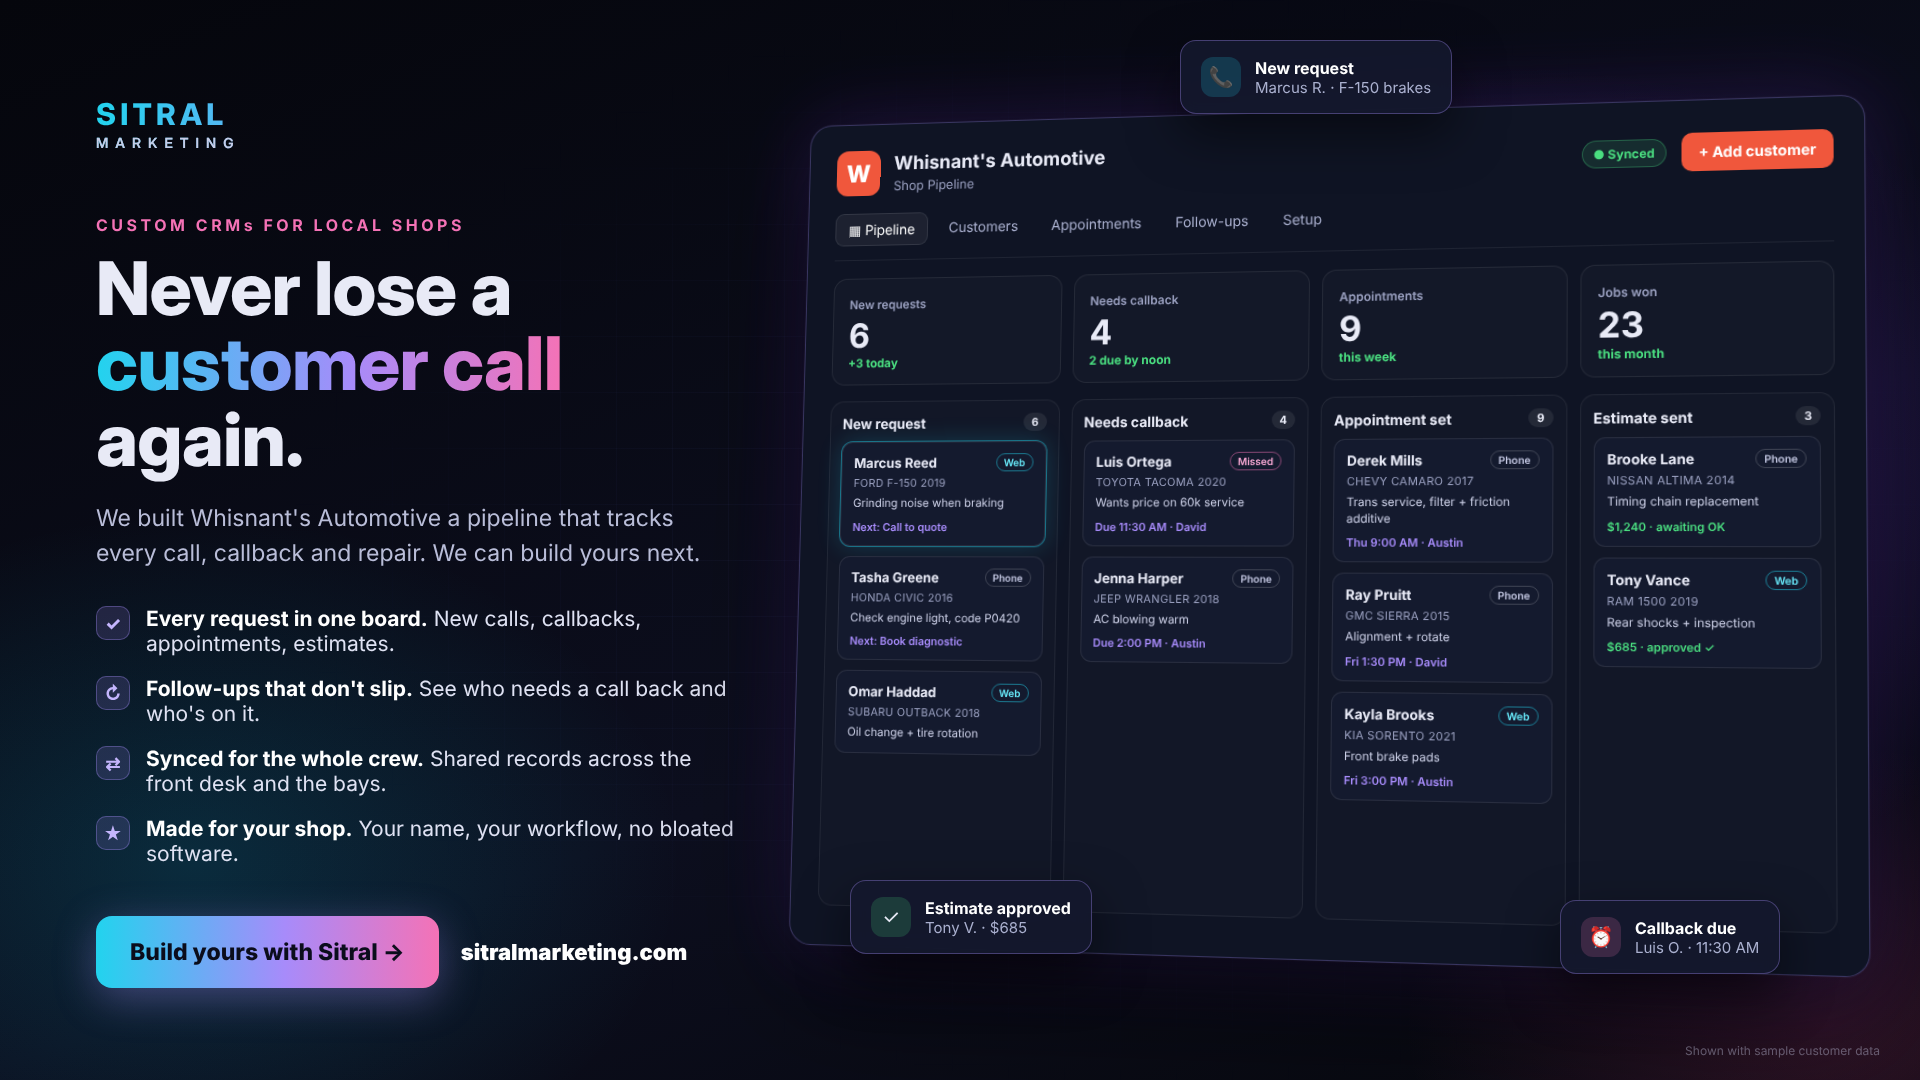
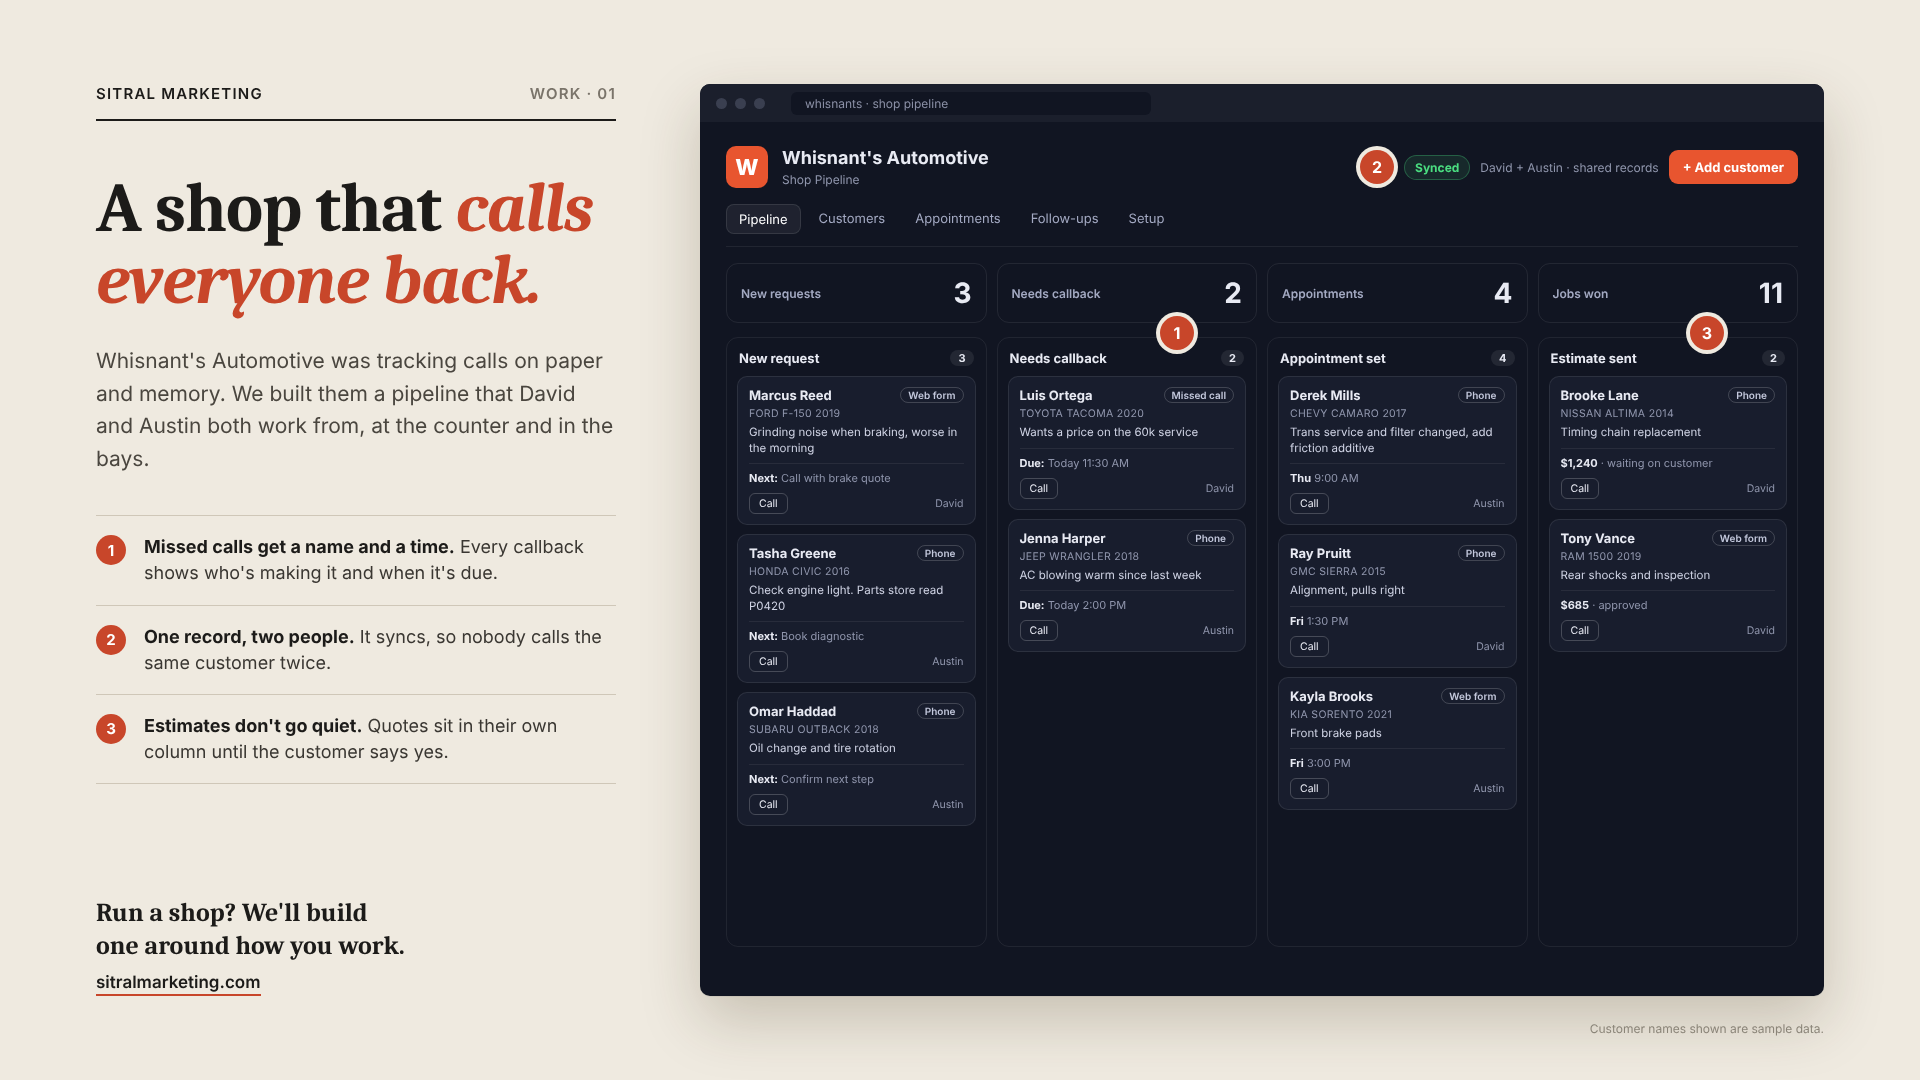
Restyle CRM promo as an editorial case study
Claude-Session: https://claude.ai/code/session_01Xn2dVnvhUTsR6NU56MkshM

diff --git a/promo/crm-promo.html b/promo/crm-promo.html
@@ -1,116 +1,110 @@
 <!doctype html>
 <html><head><meta charset="utf-8"><style>
 *{box-sizing:border-box}
-html,body{margin:0;width:1920px;height:1080px;overflow:hidden;background:#06070d}
-.wrap{position:relative;width:1920px;height:1080px;font-family:"Inter","Inter Display",sans-serif;color:#e8eaf6;
- background:radial-gradient(ellipse 900px 600px at 78% 45%,rgba(124,58,237,.30),transparent 70%),
- radial-gradient(ellipse 700px 500px at 10% 80%,rgba(6,182,212,.18),transparent 70%),
- radial-gradient(ellipse 600px 400px at 95% 95%,rgba(236,72,153,.18),transparent 70%),
- linear-gradient(160deg,#05060c,#0c0e1e 60%,#06070d)}
-.grid{position:absolute;inset:0;background-image:linear-gradient(rgba(120,140,255,.06) 1px,transparent 1px),linear-gradient(90deg,rgba(120,140,255,.06) 1px,transparent 1px);background-size:56px 56px;-webkit-mask-image:radial-gradient(ellipse 1100px 700px at 60% 50%,#000 20%,transparent 80%)}
-.grad{background:linear-gradient(90deg,#22d3ee,#a78bfa 55%,#f472b6);-webkit-background-clip:text;color:transparent}
-/* left copy */
-.left{position:absolute;left:96px;top:96px;width:640px}
-.brand{font-family:"Inter Display";font-weight:800;font-size:30px;letter-spacing:.14em}
-.brand small{display:block;font-size:14px;letter-spacing:.5em;color:#c7cbe6;font-weight:600;margin-top:2px}
-.kicker{margin-top:64px;font-size:16px;font-weight:700;letter-spacing:.22em;color:#f472b6}
-h1{font-family:"Inter Display";font-size:74px;line-height:1.02;font-weight:800;margin:16px 0 0;letter-spacing:-.01em}
-.lede{margin-top:24px;font-size:23px;line-height:1.5;color:#b9bdd8}
-ul{list-style:none;padding:0;margin:36px 0 0}
-li{display:flex;gap:16px;align-items:flex-start;margin-bottom:20px;font-size:21px;color:#dfe2f3}
-li i{flex:none;width:34px;height:34px;border-radius:10px;display:grid;place-items:center;font-style:normal;font-size:18px;font-weight:800;background:rgba(167,139,250,.16);border:1px solid rgba(167,139,250,.35);color:#c4b5fd}
-li b{color:#fff}
-.cta{position:absolute;left:96px;bottom:92px;display:flex;align-items:center;gap:22px}
-.btn{padding:22px 34px;border-radius:16px;font-size:23px;font-weight:800;color:#0b0d1c;background:linear-gradient(90deg,#22d3ee,#a78bfa 55%,#f472b6);box-shadow:0 10px 40px rgba(167,139,250,.35)}
-.url{font-size:22px;font-weight:600;color:#c7cbe6}
-.url b{color:#fff}
-/* mockup */
-.stage{position:absolute;left:800px;top:120px;width:1040px;height:820px;perspective:2200px}
-.app{position:absolute;inset:0;border-radius:22px;background:#0f1424;border:1px solid rgba(167,139,250,.28);
- box-shadow:0 40px 120px rgba(0,0,0,.6),0 0 0 1px rgba(255,255,255,.03),0 0 80px rgba(124,58,237,.25);
- transform:rotateY(-9deg) rotateX(4deg);transform-origin:left center;overflow:hidden;padding:26px 28px}
+html,body{margin:0;width:1920px;height:1080px;overflow:hidden;background:#efeae0}
+.wrap{position:relative;width:1920px;height:1080px;font-family:"Inter",sans-serif;color:#1c1b19;background:#efeae0}
+.serif{font-family:"Bitstream Charter","Caladea",serif}
+.mono{font-family:"Courier 10 Pitch","Liberation Mono",monospace}
+/* left column */
+.left{position:absolute;left:96px;top:84px;width:520px;bottom:84px;display:flex;flex-direction:column}
+.mast{display:flex;justify-content:space-between;font-size:15px;font-weight:600;letter-spacing:.08em;text-transform:uppercase;padding-bottom:16px;border-bottom:2px solid #1c1b19}
+.mast span:last-child{color:#7a746a}
+h1{font-size:70px;line-height:1.03;font-weight:700;margin:52px 0 0;letter-spacing:-.015em}
+h1 em{font-style:italic;color:#c8462a}
+.lede{margin-top:28px;font-size:21px;line-height:1.55;color:#4a463f}
+.notes{margin-top:40px;border-top:1px solid #cfc7b8}
+.note{display:flex;gap:18px;padding:18px 0;border-bottom:1px solid #cfc7b8;font-size:18px;line-height:1.45;color:#3a3732}
+.note b{color:#1c1b19}
+.num{flex:none;width:30px;height:30px;border-radius:50%;background:#c8462a;color:#fff;font-size:15px;font-weight:700;display:grid;place-items:center;margin-top:1px}
+.foot{margin-top:auto;display:flex;justify-content:space-between;align-items:flex-end}
+.foot .ask{font-size:26px;line-height:1.25;font-weight:700}
+.foot .site{font-size:17px;font-weight:600;border-bottom:2px solid #c8462a;padding-bottom:2px;margin-top:10px;display:inline-block}
+.sig{font-size:13px;color:#7a746a;text-align:right;line-height:1.5}
+/* screenshot */
+.shot{position:absolute;left:700px;top:84px;width:1124px;height:912px;border-radius:10px;background:#111522;box-shadow:0 1px 0 rgba(0,0,0,.05),0 24px 60px rgba(60,45,20,.22);overflow:hidden;color:#e8eaf3}
+.chrome{height:38px;background:#1b1f2c;display:flex;align-items:center;padding:0 16px;gap:8px}
+.chrome i{width:11px;height:11px;border-radius:50%;background:#3a3f50;display:block}
+.chrome .addr{margin-left:18px;font-size:12px;color:#8b90a6;background:#111522;border-radius:6px;padding:4px 14px;width:360px}
+.app{padding:24px 26px}
 .top{display:flex;align-items:center;gap:14px}
-.logo{width:46px;height:46px;border-radius:12px;background:#f0573c;display:grid;place-items:center;font-weight:800;font-size:24px;color:#fff}
-.shop b{display:block;font-size:19px}.shop span{font-size:13px;color:#9aa0c0}
-.sync{margin-left:auto;font-size:12px;font-weight:700;color:#4ade80;background:rgba(74,222,128,.12);border:1px solid rgba(74,222,128,.3);padding:5px 10px;border-radius:999px}
-.add{font-size:14px;font-weight:700;background:#f0573c;color:#fff;padding:10px 16px;border-radius:10px}
-.tabs{display:flex;gap:8px;margin:18px 0 18px;font-size:14px;color:#aab0cf;border-bottom:1px solid rgba(255,255,255,.07);padding-bottom:14px}
-.tabs span{padding:7px 13px;border-radius:9px}.tabs .on{background:rgba(255,255,255,.06);color:#fff;border:1px solid rgba(255,255,255,.1)}
-.stats{display:grid;grid-template-columns:repeat(4,1fr);gap:12px}
-.stat{border:1px solid rgba(255,255,255,.08);border-radius:14px;padding:14px 16px;background:rgba(255,255,255,.02)}
-.stat span{font-size:12px;color:#9aa0c0;font-weight:600}.stat b{display:block;font-size:34px;margin-top:2px}
-.stat .d{font-size:12px;color:#4ade80;font-weight:700}
-.cols{display:grid;grid-template-columns:repeat(4,1fr);gap:12px;margin-top:16px}
-.col{border:1px solid rgba(255,255,255,.07);border-radius:14px;padding:12px;background:rgba(255,255,255,.015);min-height:500px}
-.col h4{margin:0 0 10px;font-size:14px;display:flex;justify-content:space-between;align-items:center}
-.col h4 em{font-style:normal;font-size:11px;background:rgba(255,255,255,.08);border-radius:999px;padding:2px 8px}
-.card{border:1px solid rgba(255,255,255,.09);border-radius:11px;padding:11px 12px;margin-bottom:10px;background:#141a2e}
-.card b{font-size:13.5px;display:flex;justify-content:space-between;align-items:center}
-.tag{font-size:10px;font-weight:600;padding:2px 7px;border-radius:999px;border:1px solid rgba(255,255,255,.18);color:#c7cbe6}
-.tag.web{border-color:rgba(34,211,238,.5);color:#67e8f9}.tag.miss{border-color:rgba(244,114,182,.5);color:#f9a8d4}
-.car{font-size:11px;color:#9aa0c0;margin-top:4px;letter-spacing:.03em}
-.note{font-size:11.5px;color:#cfd3ea;margin-top:6px;line-height:1.35}
-.next{font-size:11px;color:#a78bfa;margin-top:8px;font-weight:600}
-.money{color:#4ade80}
-.new{box-shadow:0 0 0 1px rgba(34,211,238,.45),0 0 24px rgba(34,211,238,.2)}
-/* toasts */
-.toast{position:absolute;display:flex;gap:14px;align-items:center;padding:16px 20px;border-radius:16px;background:rgba(20,24,44,.92);border:1px solid rgba(167,139,250,.35);box-shadow:0 20px 50px rgba(0,0,0,.5);backdrop-filter:blur(8px);font-size:15px}
-.toast .ic{width:40px;height:40px;border-radius:12px;display:grid;place-items:center;font-size:20px}
-.toast b{display:block;font-size:16px;color:#fff}.toast span{color:#aab0cf}
-.t1{left:1180px;top:40px}.t1 .ic{background:rgba(34,211,238,.18)}
-.t2{left:850px;top:880px}.t2 .ic{background:rgba(74,222,128,.18)}
-.t3{left:1560px;top:900px}.t3 .ic{background:rgba(244,114,182,.18)}
-.fine{position:absolute;right:40px;bottom:22px;font-size:12px;color:rgba(199,203,230,.4)}
-</style></head><body><div class="wrap"><div class="grid"></div>
+.logo{width:42px;height:42px;border-radius:10px;background:#e8552f;display:grid;place-items:center;font-weight:800;font-size:22px;color:#fff}
+.shop b{display:block;font-size:18px}.shop span{font-size:12px;color:#9096ad}
+.right{margin-left:auto;display:flex;gap:10px;align-items:center;font-size:12px;color:#9096ad}
+.sync{font-weight:700;color:#4ade80;background:rgba(74,222,128,.1);border:1px solid rgba(74,222,128,.3);padding:4px 10px;border-radius:999px}
+.add{font-size:13px;font-weight:700;background:#e8552f;color:#fff;padding:9px 14px;border-radius:9px}
+.tabs{display:flex;gap:6px;margin:16px 0;font-size:13px;color:#a3a9c2;border-bottom:1px solid rgba(255,255,255,.07);padding-bottom:12px}
+.tabs span{padding:6px 12px;border-radius:8px}.tabs .on{background:rgba(255,255,255,.06);color:#fff;border:1px solid rgba(255,255,255,.1)}
+.stats{display:grid;grid-template-columns:repeat(4,1fr);gap:10px}
+.stat{border:1px solid rgba(255,255,255,.08);border-radius:12px;padding:12px 14px;display:flex;justify-content:space-between;align-items:center}
+.stat span{font-size:12px;color:#a3a9c2;font-weight:600}.stat b{font-size:28px}
+.cols{display:grid;grid-template-columns:repeat(4,1fr);gap:10px;margin-top:14px}
+.col{border:1px solid rgba(255,255,255,.07);border-radius:12px;padding:10px;min-height:610px}
+.col h4{margin:2px 2px 10px;font-size:13px;display:flex;justify-content:space-between;align-items:center}
+.col h4 em{font-style:normal;font-size:11px;background:rgba(255,255,255,.08);border-radius:999px;padding:1px 8px}
+.card{border:1px solid rgba(255,255,255,.09);border-radius:10px;padding:10px 11px;margin-bottom:9px;background:#181d2d}
+.card b{font-size:13px;display:flex;justify-content:space-between;align-items:center}
+.tag{font-size:10px;font-weight:600;padding:1px 7px;border-radius:999px;border:1px solid rgba(255,255,255,.18);color:#c3c8dc}
+.car{font-size:10.5px;color:#9096ad;margin-top:4px;letter-spacing:.03em}
+.txt{font-size:11.5px;color:#d1d5e6;margin-top:5px;line-height:1.35}
+.nx{font-size:11px;color:#9096ad;margin-top:7px;padding-top:7px;border-top:1px solid rgba(255,255,255,.07)}
+.nx b{display:inline;color:#e8eaf3;font-size:11px}
+.btns{display:flex;justify-content:space-between;align-items:center;margin-top:8px;font-size:10.5px;color:#9096ad}
+.btns span:first-child{border:1px solid rgba(255,255,255,.2);border-radius:6px;padding:3px 9px;color:#e8eaf3}
+/* markers on screenshot */
+.mk{position:absolute;width:34px;height:34px;border-radius:50%;background:#c8462a;color:#fff;font-weight:700;font-size:16px;display:grid;place-items:center;box-shadow:0 0 0 4px #efeae0}
+.fine{position:absolute;right:96px;bottom:44px;font-size:12px;color:#8a8478}
+</style></head><body><div class="wrap">
 
 <div class="left">
- <div class="brand grad">SITRAL<small>MARKETING</small></div>
- <div class="kicker">CUSTOM CRMs FOR LOCAL SHOPS</div>
- <h1>Never lose a <span class="grad">customer call</span> again.</h1>
- <div class="lede">We built Whisnant's Automotive a pipeline that tracks every call, callback and repair. We can build yours next.</div>
- <ul>
-  <li><i>✓</i><span><b>Every request in one board.</b> New calls, callbacks, appointments, estimates.</span></li>
-  <li><i>↻</i><span><b>Follow-ups that don't slip.</b> See who needs a call back and who's on it.</span></li>
-  <li><i>⇄</i><span><b>Synced for the whole crew.</b> Shared records across the front desk and the bays.</span></li>
-  <li><i>★</i><span><b>Made for your shop.</b> Your name, your workflow, no bloated software.</span></li>
- </ul>
+ <div class="mast"><span>Sitral Marketing</span><span>Work · 01</span></div>
+ <h1 class="serif">A shop that <em>calls everyone back.</em></h1>
+ <div class="lede">Whisnant's Automotive was tracking calls on paper and memory. We built them a pipeline that David and Austin both work from, at the counter and in the bays.</div>
+ <div class="notes">
+  <div class="note"><div class="num">1</div><div><b>Missed calls get a name and a time.</b> Every callback shows who's making it and when it's due.</div></div>
+  <div class="note"><div class="num">2</div><div><b>One record, two people.</b> It syncs, so nobody calls the same customer twice.</div></div>
+  <div class="note"><div class="num">3</div><div><b>Estimates don't go quiet.</b> Quotes sit in their own column until the customer says yes.</div></div>
+ </div>
+ <div class="foot">
+  <div><div class="ask serif">Run a shop? We'll build<br>one around how you work.</div><div class="site">sitralmarketing.com</div></div>
+ </div>
 </div>
-<div class="cta"><div class="btn">Build yours with Sitral →</div><div class="url"><b>sitralmarketing.com</b></div></div>
 
-<div class="stage"><div class="app">
- <div class="top"><div class="logo">W</div><div class="shop"><b>Whisnant's Automotive</b><span>Shop Pipeline</span></div>
-  <div class="sync">● Synced</div><div class="add">+ Add customer</div></div>
- <div class="tabs"><span class="on">▦ Pipeline</span><span>Customers</span><span>Appointments</span><span>Follow-ups</span><span>Setup</span></div>
- <div class="stats">
-  <div class="stat"><span>New requests</span><b>6</b><div class="d">+3 today</div></div>
-  <div class="stat"><span>Needs callback</span><b>4</b><div class="d">2 due by noon</div></div>
-  <div class="stat"><span>Appointments</span><b>9</b><div class="d">this week</div></div>
-  <div class="stat"><span>Jobs won</span><b>23</b><div class="d">this month</div></div>
+<div class="shot">
+ <div class="chrome"><i></i><i></i><i></i><div class="addr">whisnants · shop pipeline</div></div>
+ <div class="app">
+  <div class="top"><div class="logo">W</div><div class="shop"><b>Whisnant's Automotive</b><span>Shop Pipeline</span></div>
+   <div class="right"><span class="sync">Synced</span><span>David + Austin · shared records</span><span class="add">+ Add customer</span></div></div>
+  <div class="tabs"><span class="on">Pipeline</span><span>Customers</span><span>Appointments</span><span>Follow-ups</span><span>Setup</span></div>
+  <div class="stats">
+   <div class="stat"><span>New requests</span><b>3</b></div>
+   <div class="stat"><span>Needs callback</span><b>2</b></div>
+   <div class="stat"><span>Appointments</span><b>4</b></div>
+   <div class="stat"><span>Jobs won</span><b>11</b></div>
+  </div>
+  <div class="cols">
+   <div class="col"><h4>New request <em>3</em></h4>
+    <div class="card"><b>Marcus Reed <span class="tag">Web form</span></b><div class="car">FORD F-150 2019</div><div class="txt">Grinding noise when braking, worse in the morning</div><div class="nx"><b>Next:</b> Call with brake quote</div><div class="btns"><span>Call</span><span>David</span></div></div>
+    <div class="card"><b>Tasha Greene <span class="tag">Phone</span></b><div class="car">HONDA CIVIC 2016</div><div class="txt">Check engine light. Parts store read P0420</div><div class="nx"><b>Next:</b> Book diagnostic</div><div class="btns"><span>Call</span><span>Austin</span></div></div>
+    <div class="card"><b>Omar Haddad <span class="tag">Phone</span></b><div class="car">SUBARU OUTBACK 2018</div><div class="txt">Oil change and tire rotation</div><div class="nx"><b>Next:</b> Confirm next step</div><div class="btns"><span>Call</span><span>Austin</span></div></div>
+   </div>
+   <div class="col"><h4>Needs callback <em>2</em></h4>
+    <div class="card"><b>Luis Ortega <span class="tag">Missed call</span></b><div class="car">TOYOTA TACOMA 2020</div><div class="txt">Wants a price on the 60k service</div><div class="nx"><b>Due:</b> Today 11:30 AM</div><div class="btns"><span>Call</span><span>David</span></div></div>
+    <div class="card"><b>Jenna Harper <span class="tag">Phone</span></b><div class="car">JEEP WRANGLER 2018</div><div class="txt">AC blowing warm since last week</div><div class="nx"><b>Due:</b> Today 2:00 PM</div><div class="btns"><span>Call</span><span>Austin</span></div></div>
+   </div>
+   <div class="col"><h4>Appointment set <em>4</em></h4>
+    <div class="card"><b>Derek Mills <span class="tag">Phone</span></b><div class="car">CHEVY CAMARO 2017</div><div class="txt">Trans service and filter changed, add friction additive</div><div class="nx"><b>Thu</b> 9:00 AM</div><div class="btns"><span>Call</span><span>Austin</span></div></div>
+    <div class="card"><b>Ray Pruitt <span class="tag">Phone</span></b><div class="car">GMC SIERRA 2015</div><div class="txt">Alignment, pulls right</div><div class="nx"><b>Fri</b> 1:30 PM</div><div class="btns"><span>Call</span><span>David</span></div></div>
+    <div class="card"><b>Kayla Brooks <span class="tag">Web form</span></b><div class="car">KIA SORENTO 2021</div><div class="txt">Front brake pads</div><div class="nx"><b>Fri</b> 3:00 PM</div><div class="btns"><span>Call</span><span>Austin</span></div></div>
+   </div>
+   <div class="col"><h4>Estimate sent <em>2</em></h4>
+    <div class="card"><b>Brooke Lane <span class="tag">Phone</span></b><div class="car">NISSAN ALTIMA 2014</div><div class="txt">Timing chain replacement</div><div class="nx"><b>$1,240</b> · waiting on customer</div><div class="btns"><span>Call</span><span>David</span></div></div>
+    <div class="card"><b>Tony Vance <span class="tag">Web form</span></b><div class="car">RAM 1500 2019</div><div class="txt">Rear shocks and inspection</div><div class="nx"><b>$685</b> · approved</div><div class="btns"><span>Call</span><span>David</span></div></div>
+   </div>
+  </div>
  </div>
- <div class="cols">
-  <div class="col"><h4>New request <em>6</em></h4>
-   <div class="card new"><b>Marcus Reed <span class="tag web">Web</span></b><div class="car">FORD F-150 2019</div><div class="note">Grinding noise when braking</div><div class="next">Next: Call to quote</div></div>
-   <div class="card"><b>Tasha Greene <span class="tag">Phone</span></b><div class="car">HONDA CIVIC 2016</div><div class="note">Check engine light, code P0420</div><div class="next">Next: Book diagnostic</div></div>
-   <div class="card"><b>Omar Haddad <span class="tag web">Web</span></b><div class="car">SUBARU OUTBACK 2018</div><div class="note">Oil change + tire rotation</div></div>
-  </div>
-  <div class="col"><h4>Needs callback <em>4</em></h4>
-   <div class="card"><b>Luis Ortega <span class="tag miss">Missed</span></b><div class="car">TOYOTA TACOMA 2020</div><div class="note">Wants price on 60k service</div><div class="next">Due 11:30 AM · David</div></div>
-   <div class="card"><b>Jenna Harper <span class="tag">Phone</span></b><div class="car">JEEP WRANGLER 2018</div><div class="note">AC blowing warm</div><div class="next">Due 2:00 PM · Austin</div></div>
-  </div>
-  <div class="col"><h4>Appointment set <em>9</em></h4>
-   <div class="card"><b>Derek Mills <span class="tag">Phone</span></b><div class="car">CHEVY CAMARO 2017</div><div class="note">Trans service, filter + friction additive</div><div class="next">Thu 9:00 AM · Austin</div></div>
-   <div class="card"><b>Ray Pruitt <span class="tag">Phone</span></b><div class="car">GMC SIERRA 2015</div><div class="note">Alignment + rotate</div><div class="next">Fri 1:30 PM · David</div></div>
-   <div class="card"><b>Kayla Brooks <span class="tag web">Web</span></b><div class="car">KIA SORENTO 2021</div><div class="note">Front brake pads</div><div class="next">Fri 3:00 PM · Austin</div></div>
-  </div>
-  <div class="col"><h4>Estimate sent <em>3</em></h4>
-   <div class="card"><b>Brooke Lane <span class="tag">Phone</span></b><div class="car">NISSAN ALTIMA 2014</div><div class="note">Timing chain replacement</div><div class="next money">$1,240 · awaiting OK</div></div>
-   <div class="card"><b>Tony Vance <span class="tag web">Web</span></b><div class="car">RAM 1500 2019</div><div class="note">Rear shocks + inspection</div><div class="next money">$685 · approved ✓</div></div>
-  </div>
- </div>
-</div></div>
-
-<div class="toast t1"><div class="ic">📞</div><div><b>New request</b><span>Marcus R. · F-150 brakes</span></div></div>
-<div class="toast t2"><div class="ic">✓</div><div><b>Estimate approved</b><span>Tony V. · $685</span></div></div>
-<div class="toast t3"><div class="ic">⏰</div><div><b>Callback due</b><span>Luis O. · 11:30 AM</span></div></div>
-<div class="fine">Shown with sample customer data</div>
+</div>
+<div class="mk" style="left:1160px;top:316px">1</div>
+<div class="mk" style="left:1360px;top:150px">2</div>
+<div class="mk" style="left:1690px;top:316px">3</div>
+<div class="fine">Customer names shown are sample data.</div>
 </div></body></html>
